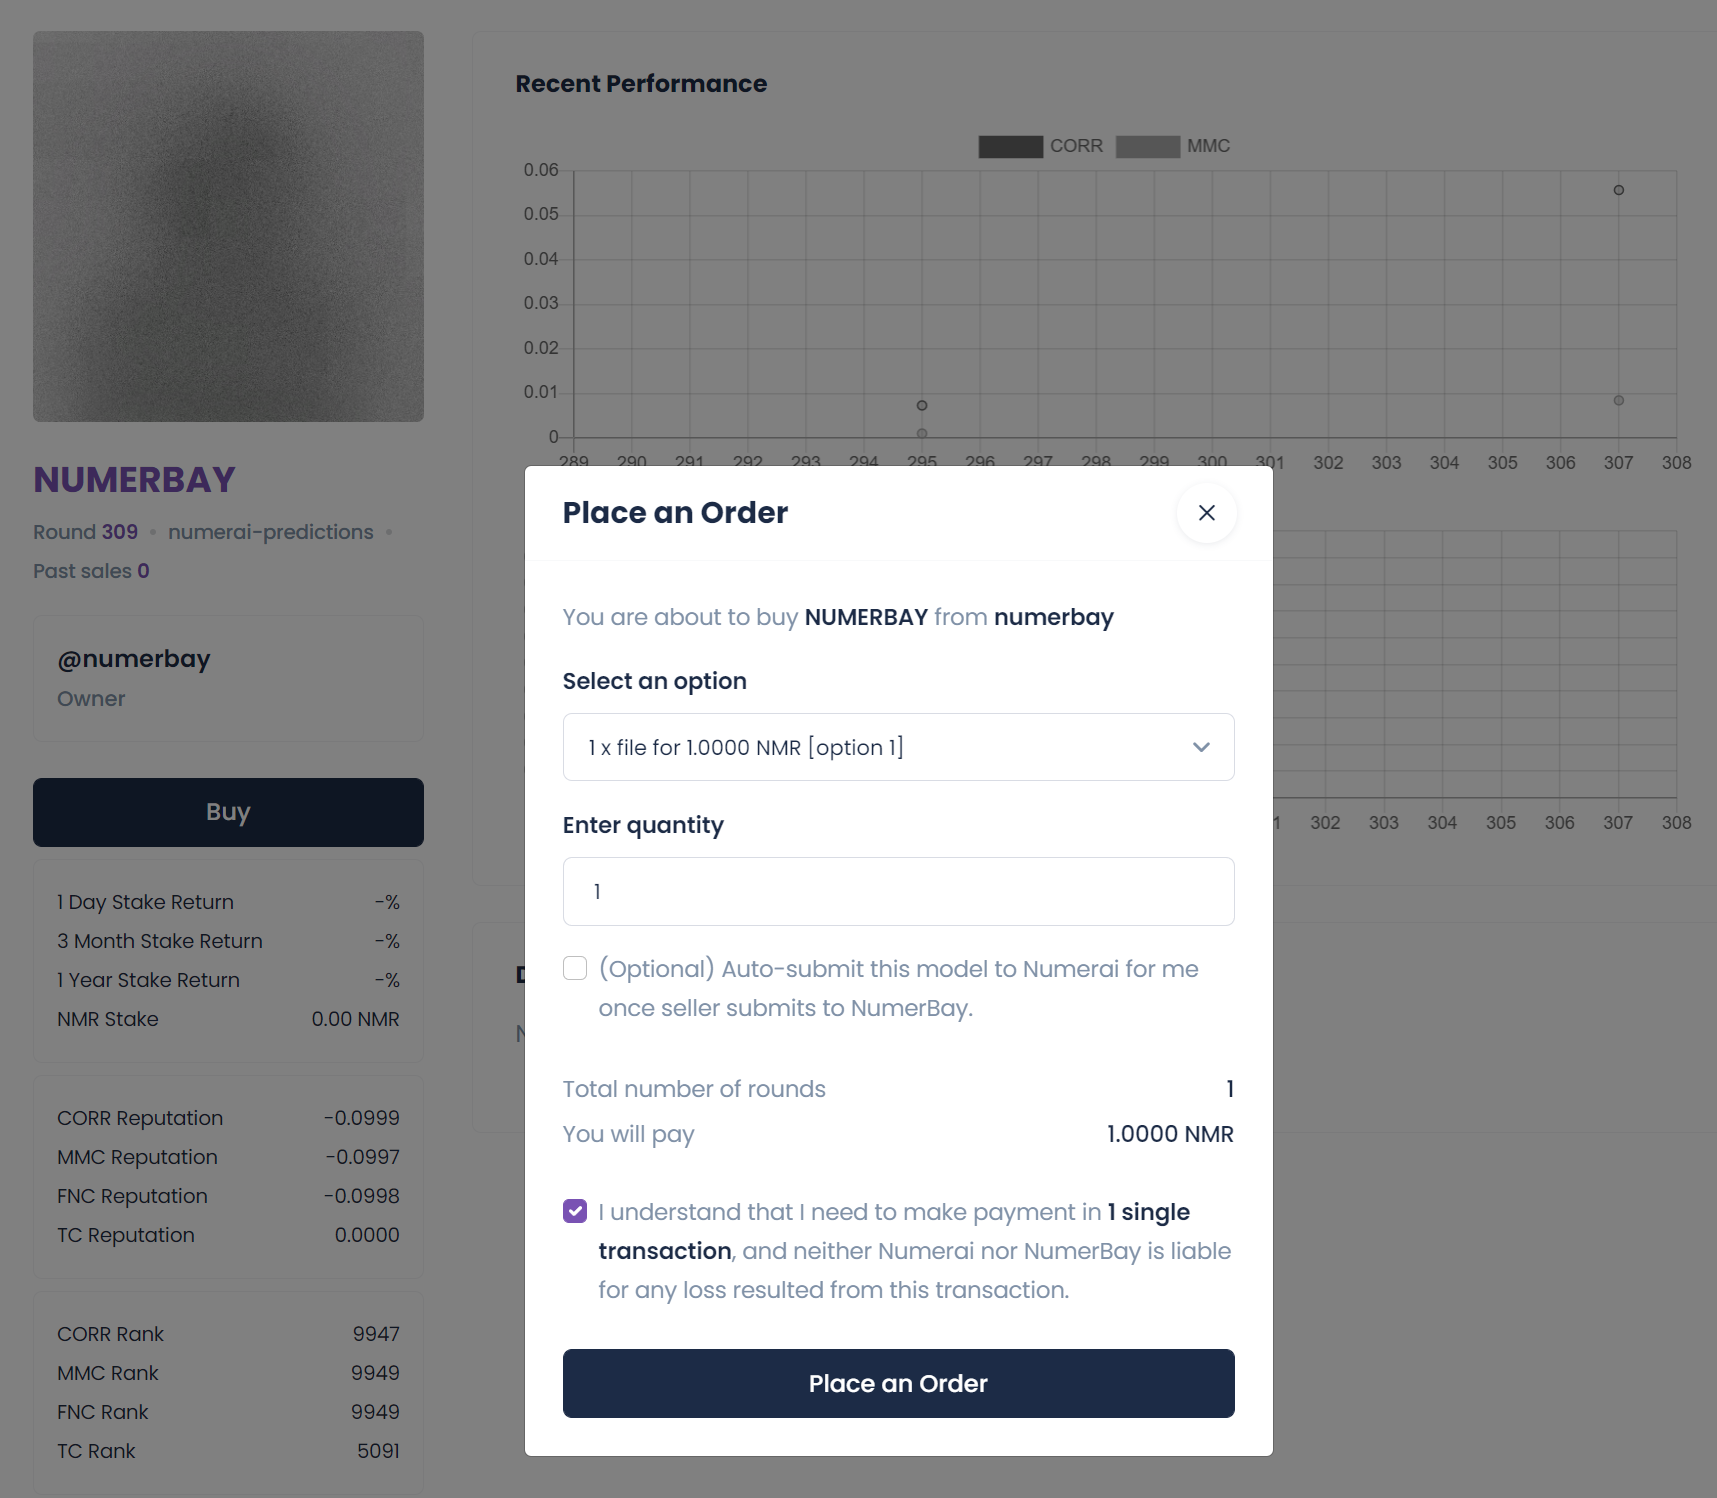
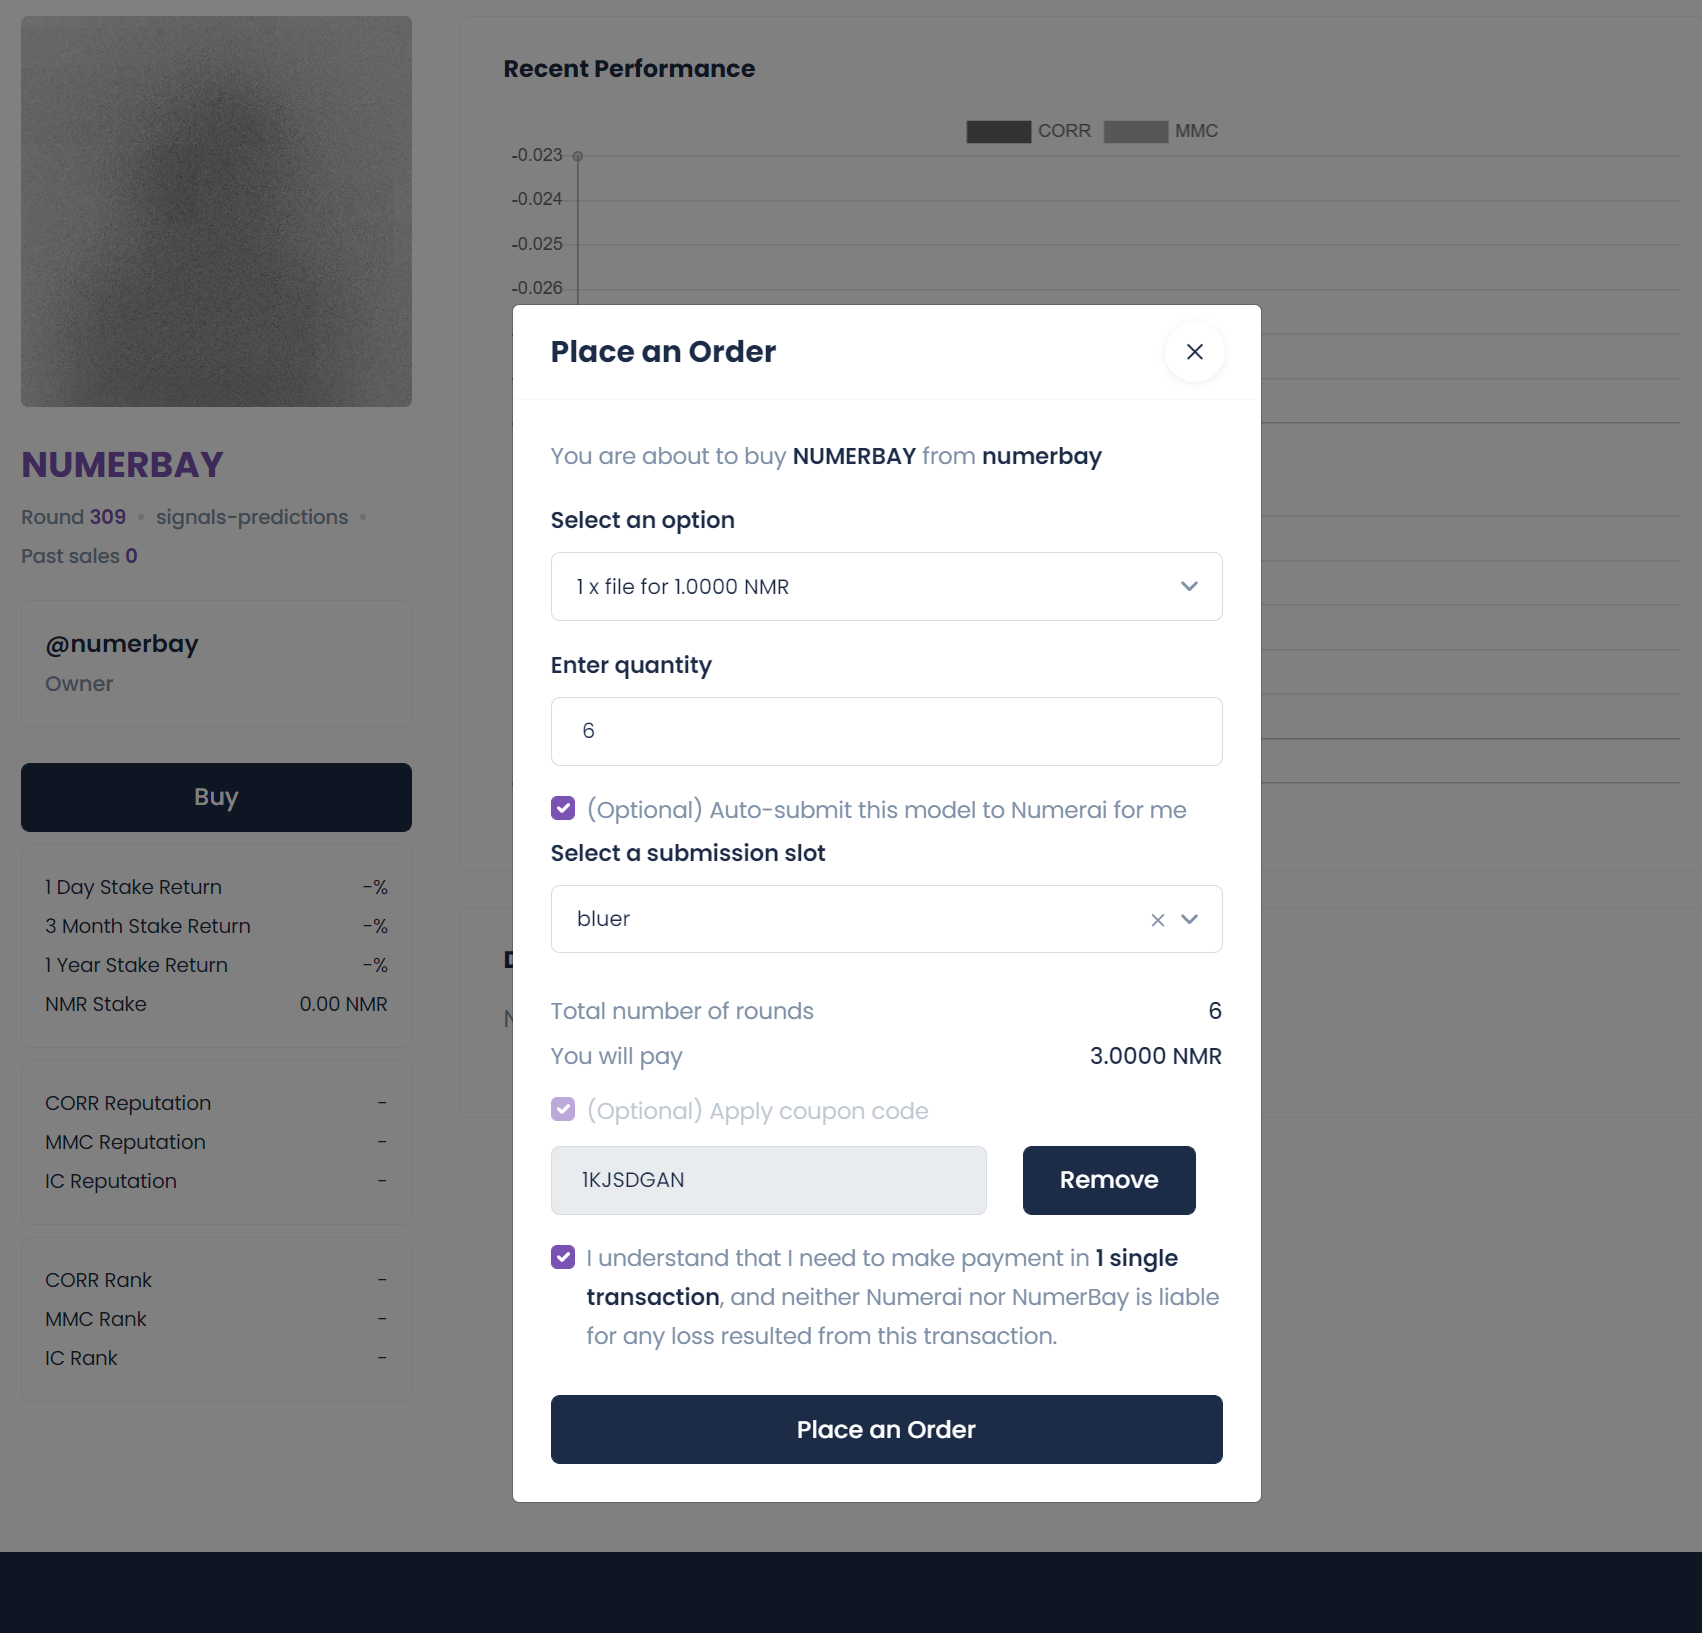
Add docs for coupon

diff --git a/docs/docs/tutorial-basics/buy-a-product.md b/docs/docs/tutorial-basics/buy-a-product.md
@@ -57,6 +57,8 @@ Navigate to a product you are interested in, and click **Buy**. Then, select you
 
 If the product you are buying is a tournament submission, you can select a model slot to **auto-submit** to. This is mandatory if the product is sold in "Stake Only" mode. 
 
+If you have a valid discount **coupon** for the product, you can also apply it before placing an order.
+
 ![Product Quantity](/img/tutorial/productQuantity.png)
 
 :::info
@@ -109,3 +111,8 @@ If the product you bought uses client-side encryption, you may be prompted by Me
 
 ## Submission
 If you made your order with auto-submission set up during checkout, submissions will be automatically done for you after tournament round open and after the seller submits their files.
+
+## Manage coupons
+Some sellers may reward you with coupons for your orders. Your coupons are viewable in the **[My Coupons](https://numerbay.ai/coupons)** page. 
+
+![My Coupons](/img/tutorial/myCoupons.png)
